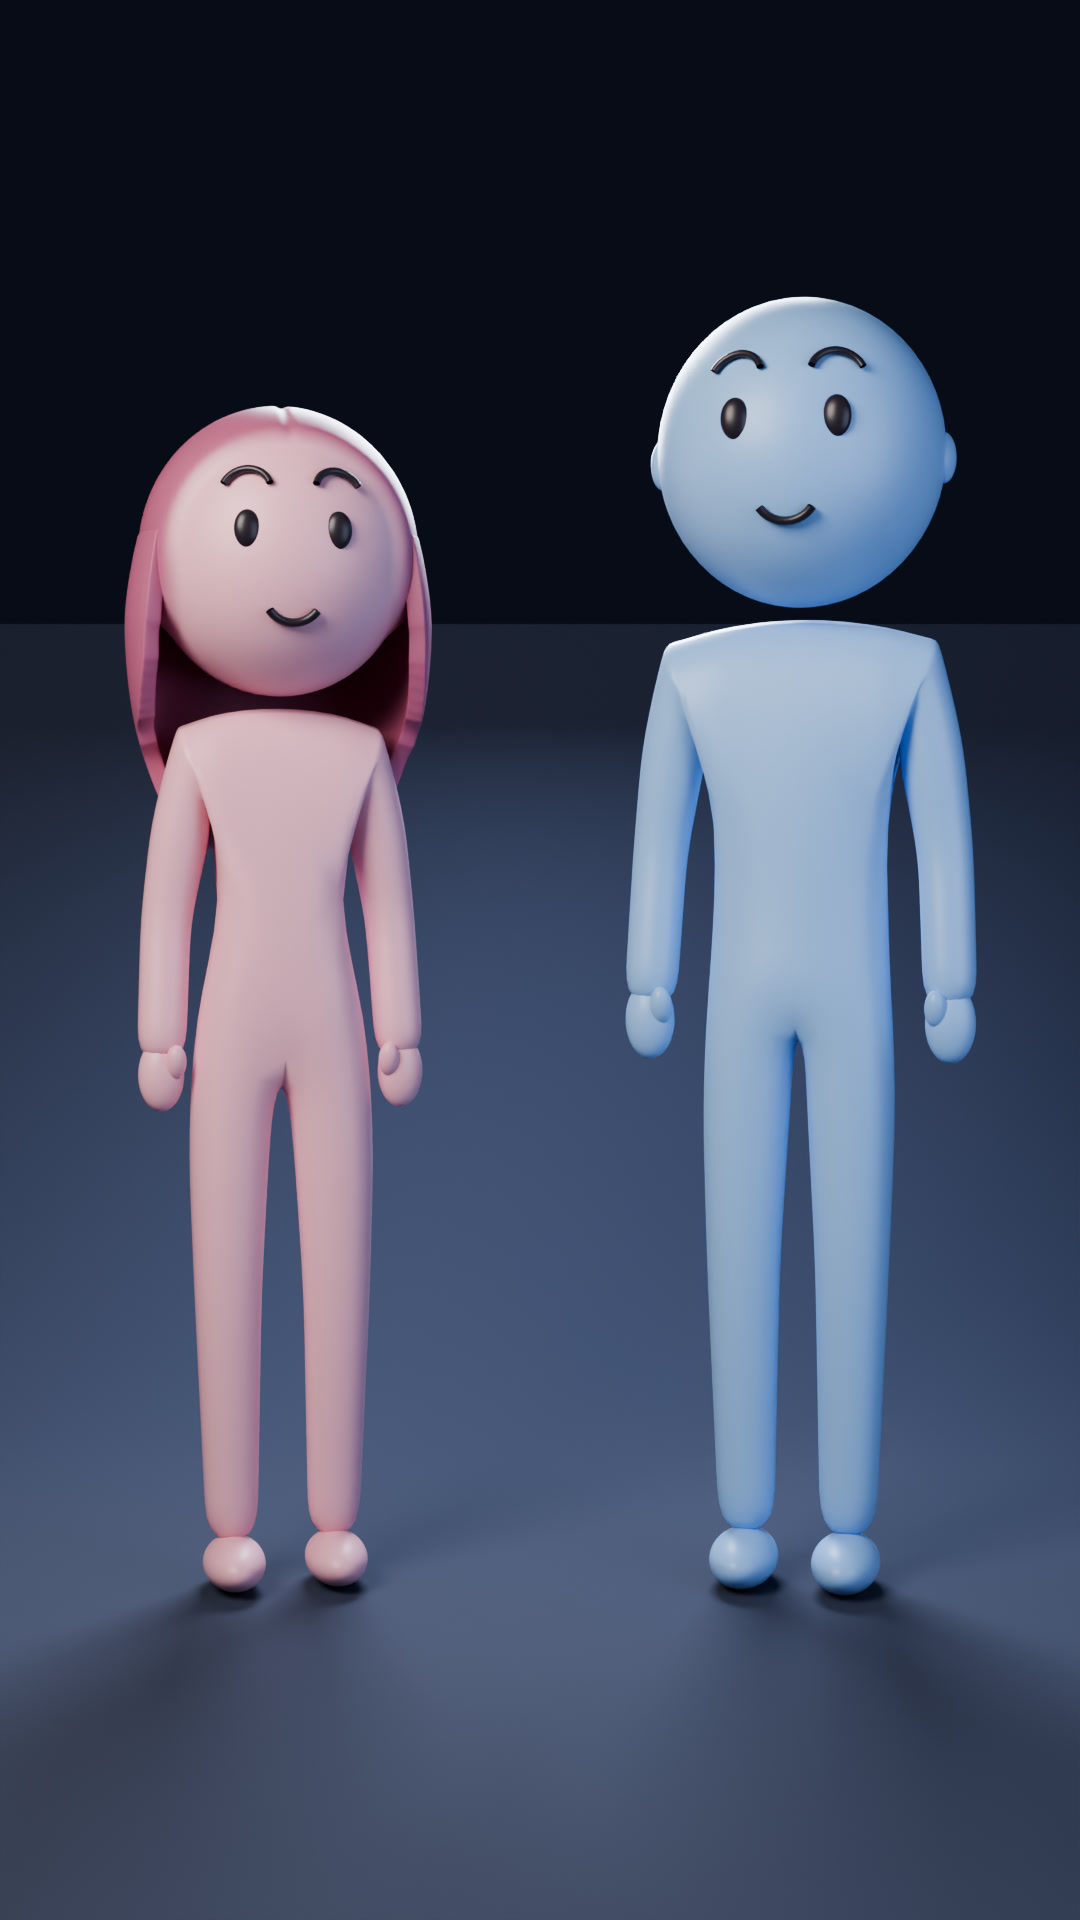
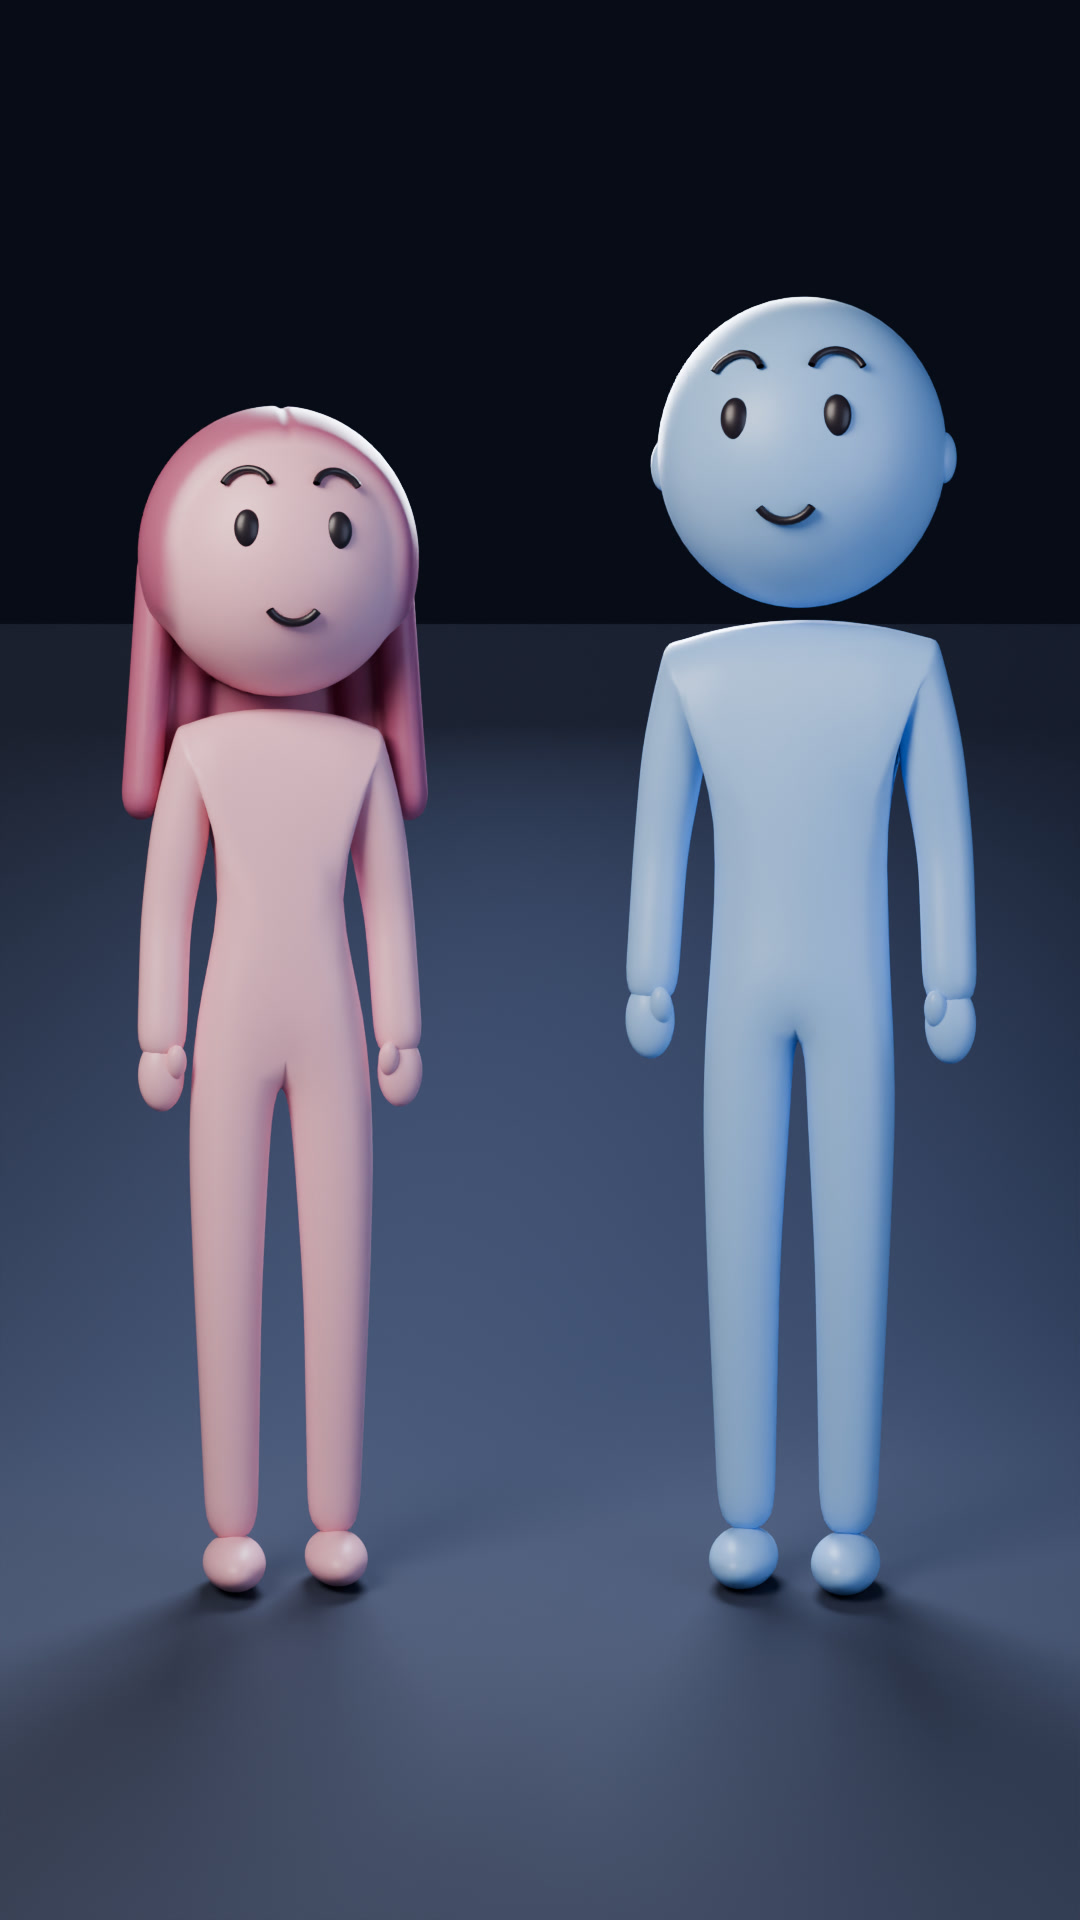
Hanging hair as a soft metaball volume: rounded edges, no sharp shell rim
Claude-Session: https://claude.ai/code/session_01FQFJKx8X2643G2hLZWtcZT

Changed region(s): [[0.0917, 0.2812, 0.3972, 0.4375]]

diff --git a/blender_figures/figures.py b/blender_figures/figures.py
@@ -139,31 +139,24 @@ def figure(w):
         nt.links.new(attr.outputs["Fac"], mix.inputs[0]); nt.links.new(mix.outputs[2], bsdf.inputs["Base Color"])
         bsdf.inputs["Roughness"].default_value = 0.42; bsdf.inputs["Subsurface Weight"].default_value = 0.06
         head.data.materials.clear(); head.data.materials.append(hm)
-        # the hanging part: a curtain from the ears down to just below the shoulders, its top hidden inside the head
-        bpy.ops.mesh.primitive_uv_sphere_add(segments=128, ring_count=72, radius=1.0, location=(0, 0, 0))
-        hs = bpy.context.active_object; hs.name = "hair"
-        bm = bmesh.new(); bm.from_mesh(hs.data)
-        drop = (H.z - R) - (z(1.22) - 0.14)
-        kill = []
-        for v in bm.verts:
-            d = v.co.normalized()
-            if d.z > 0.25 or (d.y < -0.05 and window(d) < 0.05) or (d.y < 0.05 and d.z < -0.2 and abs(d.x) < 0.8) or d.z < -0.9:
-                kill.append(v); continue
-            t = max(0.0, (0.15 - d.z) / 1.05)
-            em = sstep(0.28, -0.15, d.z)                        # emerges tangentially out of the head
-            rr = R * (1.0 + 0.095 * em); sp = 1 + 0.12 * t ** 1.3
-            v.co = Vector((d.x * rr * sp, d.y * rr * sp + 0.02 * t, d.z * rr - drop * t ** 0.9))
-        bmesh.ops.delete(bm, geom=kill, context="VERTS")
-        edge = set(v for v in bm.verts if v.is_boundary)
-        ring = set(e.other_vert(v) for v in edge for e in v.link_edges) | edge
-        ring = set(e.other_vert(v) for v in ring for e in v.link_edges) | ring
-        for _ in range(40): bmesh.ops.smooth_vert(bm, verts=list(edge), factor=0.5, use_axis_x=True, use_axis_y=True, use_axis_z=True)
-        for _ in range(15): bmesh.ops.smooth_vert(bm, verts=list(ring), factor=0.4, use_axis_x=True, use_axis_y=True, use_axis_z=True)
-        bm.to_mesh(hs.data); bm.free()
-        hs.location = H + Vector((0, 0.0, 0)); hs.scale = (0.97, 0.98, 1.03)
-        so = hs.modifiers.new("thick", "SOLIDIFY"); so.thickness = 0.026; so.offset = 0
-        sb = hs.modifiers.new("sub", "SUBSURF"); sb.levels = sb.render_levels = 2
-        smooth(hs); hs.data.materials.append(HAIR); reg(hs)
+        # the hanging part: soft blobby volume (metaballs) behind and beside the head, down to just below the shoulders
+        mb = bpy.data.metaballs.new("hairmb"); mb.resolution = 0.012; mb.render_resolution = 0.007; mb.threshold = 0.75
+        bottom = -((H.z - R) - (z(1.22) - 0.13)) - R              # z of the hair ends, relative to the head centre
+        def blob(co, rad, sx, sy, sz):
+            e = mb.elements.new(); e.type = "ELLIPSOID"; e.co = co; e.radius = rad
+            e.size_x, e.size_y, e.size_z = sx, sy, sz; e.stiffness = 1.6
+        n = 22
+        blob((0, R * 0.3, R * 0.1), R * 0.93, 1.0, 0.9, 1.0)          # back of the head: hair dome merged with the strands
+        for i in range(n):
+            t = i / (n - 1); zz = 0.3 * R + (bottom + 0.06 - 0.3 * R) * t
+            fl = 1 + 0.18 * t                                    # ends flare a little
+            blob((0, R * (0.5 + 0.2 * min(1, t * 3) - 0.02 * t), zz), R * 0.42, 1.95 * fl, 0.72, 0.9)              # back sheet
+            for s in (-1, 1):
+                if t > 0.12:
+                    blob((s * R * 0.86 * fl, R * (0.2 + 0.05 * t), zz), R * 0.3, 0.8, 1.2, 0.9)   # side curtains
+                if t > 0.12: blob((s * R * 0.64 * fl, R * (0.46 + 0.1 * t), zz), R * 0.34, 1.0, 0.95, 0.9)        # corners
+        hs = bpy.data.objects.new("hair", mb); sc.collection.objects.link(hs)
+        hs.location = H; mb.materials.append(HAIR); reg(hs)
     else:
         for s in (-1, 1):                 # small ears so his bald head reads as a head
             sphere("ear", H + Vector((s * R * 0.95, 0.01, -0.01)), R * 0.17, m, (0.5, 0.8, 1.0))
